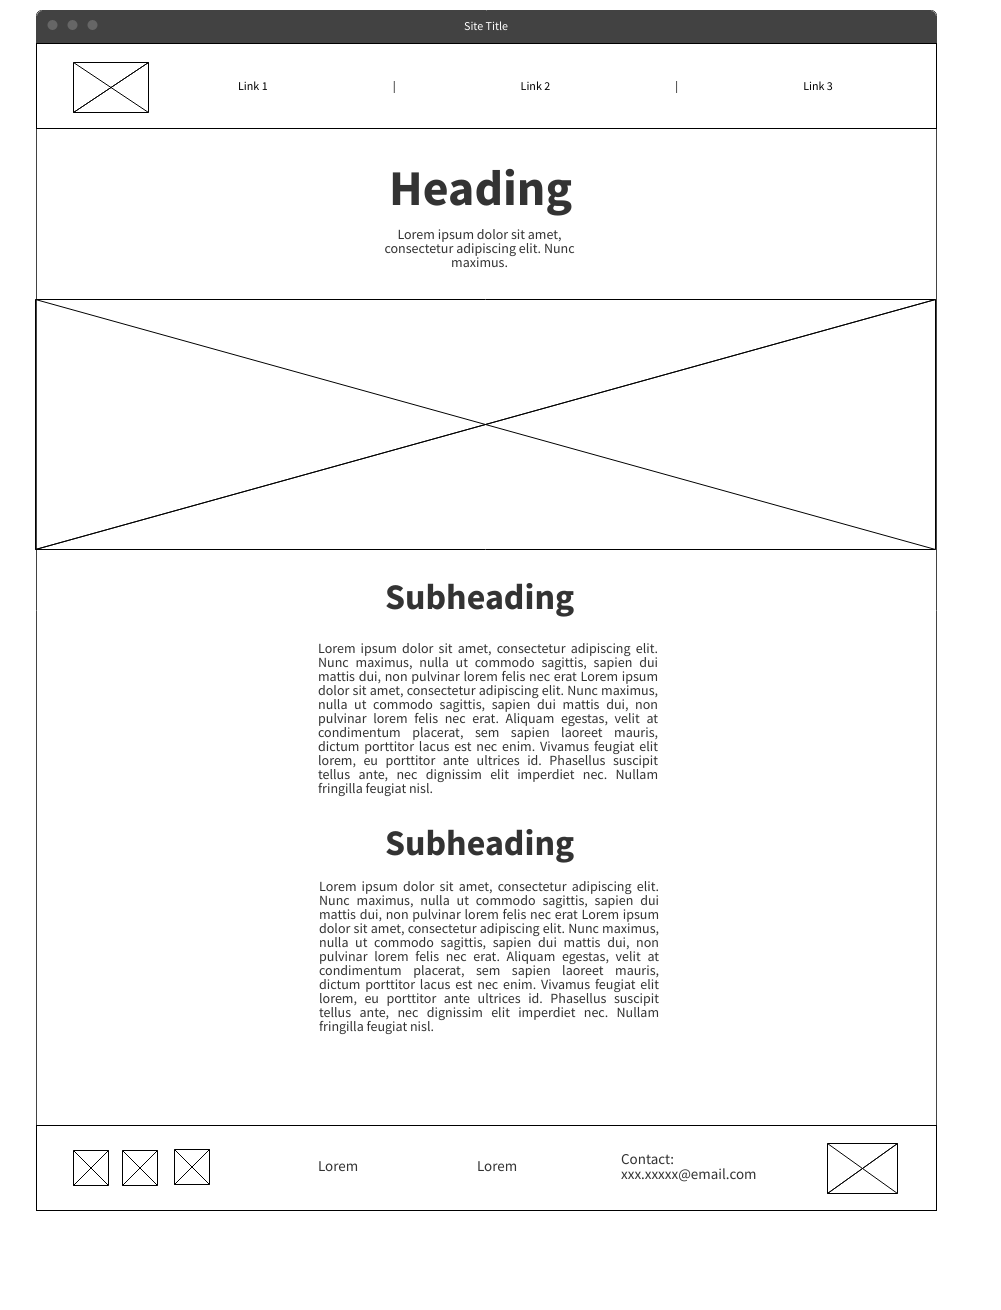
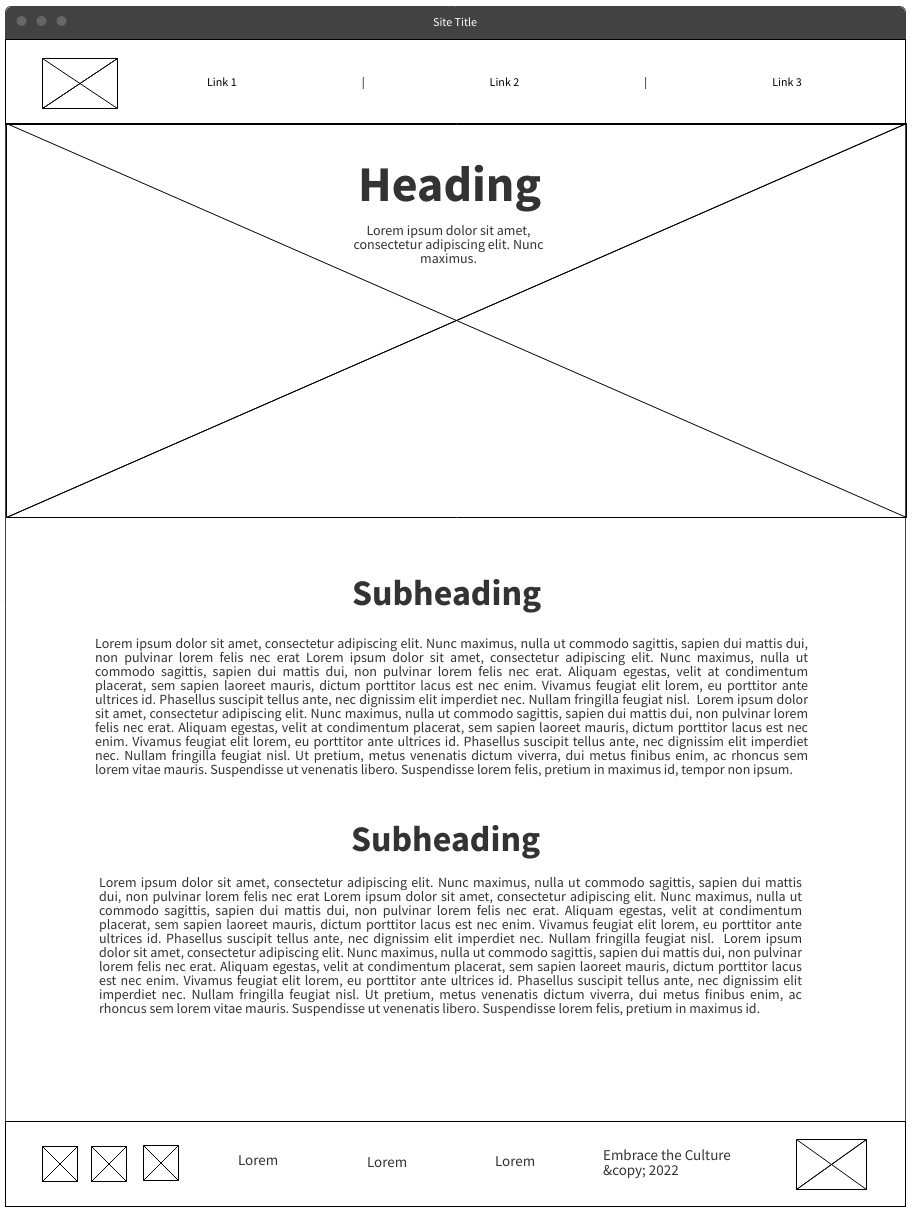
W12 Public Relation

diff --git a/embracetheculture/public-relation.html b/embracetheculture/public-relation.html
@@ -6,52 +6,61 @@
     <meta name="viewport" content="width=device-width, initial-scale=1.0">
     <link rel="shortcut icon" href="styles/embrace-the-culture-logo-300.png" type="image/x-icon">
     <title>Embrace the Culture | Public Relation</title>
+    <link rel="stylesheet" href="styles/relationstyle.css">
 </head>
-<body>
-        
-    <header>
-        <a id="logo_link" href="index.html">
-            <img class="logo" src="styles/embrace-the-culture-logo-transparent-286.png" alt="Dry Oar Logo">
-        </a>
-        <nav>
-            <a href="index.html">Home</a>
-            <a href="about-us.html">About Us</a>
-            <a href="public-relation.html">Public Relation</a>
-            <a href="site-plan.html">Site Plan</a>
-        </nav>
-    </header>
-    <main>
-        <div class="relation_head">
-            <h1 id="relation_heading">Public Relation</h1>
-            <p>Here you can find information about our mentality regarding the relationship with the audience and our interaction channel</p>
-        </div>
-        <section class="about-img">
-            <img src="styles/dorian-mongel-9zQkRU9IsDk-unsplash-500.jpg" alt="Aerial shot of the Rockfeller Center">
-        </section>
-        <div class="relation_msg">
-            <h2 id="target-msg">Target Audience</h2>
-            <p>There is not a close-minded target audience, because it is an idea that can be propagated and transmitted from person to person because of its liberating and curious character. On the other hand, it is plausible to conclude that this site will be a full dish for lovers of new adventures or who knows how to truly enjoy a place that has been on a previous occasion. Whether for the most assiduous travelers, with a passion for the unknown and what the world reserves for them, or for those who just want to upgrade on the next trip, whether it's business, vacation, or any other reason.  Anyone will have open doors to enter our site and search for locations they wish or will actually travel to. In this way, they will be presented with photos and information about the location, as well as suggestions for to-do that are beyond the travel plan of any travel company.</p>
-            <h2 id="int-msg">Interactions</h2>
-            <p>Many similar ideas of websites do not carry the same responsibility and interest as we do, that we seek a true interaction with our audience and really gauge satisfaction with the content we are delivering. For this to be done clearly, you, visitor, will have an open channel to leave us discoveries about your latest experiences or even a negative comment about a certain locality that does not necessarily allow this natural and cultural interconnection. Whether through constructive or even destructive criticism, we will always strive to improve our content to better suit the user experience that visits our site.</p>
-        </div>
-    </main>
-    <footer>
-        <div class="social_media">
-            <a href="https://facebook.com" target="_blank">
-                <img src="styles/facebook.png" alt="fb icon">
+<body>     
+    <div id="content">
+        <header>
+            <a id="logo_link" href="index.html">
+                <img class="logo" src="styles/embrace-the-culture-logo-transparent-286.png" alt="Dry Oar Logo">
             </a>
-            <a href="https://twitter.com">
-                <img src="styles/twitter.png" alt="twitter icon">
-            </a>
-            <a href="https://instagram.com">
-                <img src="styles/instagram.png" alt="instagram icon">
-            </a>
+            <nav>
+                <a href="index.html">Home</a>
+                <a href="about-us.html">About Us</a>
+                <a href="public-relation.html">Public Relation</a>
+                <a href="site-plan.html">Site Plan</a>
+            </nav>
+        </header>
+        <div class="main_relation">
+            <div class="relation_head">
+                <h1 id="relation_heading">Public Relation</h1>
+                <p>Here you can find information about our mentality regarding the relationship with the audience and our interaction channel</p>
+            </div>
+            <div class="img-box">
+                <picture>
+                    <source media="(max-width: 600px )" srcset="styles/dorian-mongel-9zQkRU9IsDk-unsplash-pq.jpg">
+                    <img class="relation-img" src="styles/dorian-mongel-9zQkRU9IsDk-unsplash-2250.jpg" alt="Aerial shot of the Rockfeller Center">
+                </picture>
+            </div>
         </div>
-        <h3><a href="about-us.html">About Us</a></h3>
-        <h3><a href="public-relation.html">Public Relation</a></h3>
-        <h3><a href="site-plan.html">Site Plan</a></h3>
-        <h3>Embrace the Culture &copy; 2022</h3>
-        <img src="styles/embrace-the-culture-logo-transparent-286.png" alt="Embrace the Culture Logo">
-    </footer>
+        <main class="main_relation2">
+            <div class="relation_msg">
+                <h2 id="target-msg">Target Audience</h2>
+                <p>There is not a close-minded target audience, because it is an idea that can be propagated and transmitted from person to person because of its liberating and curious character. On the other hand, it is plausible to conclude that this site will be a full dish for lovers of new adventures or who knows how to truly enjoy a place that has been on a previous occasion. Whether for the most assiduous travelers, with a passion for the unknown and what the world reserves for them, or for those who just want to upgrade on the next trip, whether it's business, vacation, or any other reason.  Anyone will have open doors to enter our site and search for locations they wish or will actually travel to. In this way, they will be presented with photos and information about the location, as well as suggestions for to-do that are beyond the travel plan of any travel company.</p>
+                <h2 id="int-msg">Interactions</h2>
+                <p>Many similar ideas of websites do not carry the same responsibility and interest as we do, that we seek a true interaction with our audience and really gauge satisfaction with the content we are delivering. For this to be done clearly, you, visitor, will have an open channel to leave us discoveries about your latest experiences or even a negative comment about a certain locality that does not necessarily allow this natural and cultural interconnection. Whether through constructive or even destructive criticism, we will always strive to improve our content to better suit the user experience that visits our site.</p>
+            </div>
+        </main>
+        <footer>
+            <div class="social_media">
+                <a href="https://facebook.com" target="_blank">
+                    <img src="styles/facebook.png" alt="fb icon">
+                </a>
+                <a href="https://twitter.com">
+                    <img src="styles/twitter.png" alt="twitter icon">
+                </a>
+                <a href="https://instagram.com">
+                    <img src="styles/instagram.png" alt="instagram icon">
+                </a>
+            </div>
+            <h3><a href="about-us.html">About Us</a></h3>
+            <h3><a href="public-relation.html">Public Relation</a></h3>
+            <h3><a href="site-plan.html">Site Plan</a></h3>
+            <h3>Embrace the Culture &copy; 2022</h3>
+            <a href="index.html">
+                <img class= "logo_2" src="styles/embrace-the-culture-logo-transparent-286.png" alt="Embrace the Culture Logo">
+              </a>
+        </footer>
+    </div>
 </body>
 </html>

diff --git a/embracetheculture/about-us.html b/embracetheculture/about-us.html
@@ -6,52 +6,63 @@
     <meta name="viewport" content="width=device-width, initial-scale=1.0">
     <link rel="shortcut icon" href="styles/embrace-the-culture-logo-300.png" type="image/x-icon">
     <title>Embrace the Culture | About Us</title>
+    <link rel="stylesheet" href="styles/style.css">
 </head>
 <body>
-    
-    <header>
-        <a id="logo_link" href="index.html">
-            <img class="logo" src="styles/embrace-the-culture-logo-transparent-286.png" alt="Dry Oar Logo">
-        </a>
-        <nav>
-            <a href="index.html">Home</a>
-            <a href="about-us.html">About Us</a>
-            <a href="public-relation.html">Public Relation</a>
-            <a href="site-plan.html">Site Plan</a>
-        </nav>
-    </header>
-    <main>
-        <div class="about_head">
-            <h1 id="about_heading">About Us</h1>
-            <p>Learn a little more about what moves us and our ideals</p>
-        </div>
-        <section class="about-img">
-            <img src="styles/dorian-mongel-9zQkRU9IsDk-unsplash-500.jpg" alt="Aerial shot of the Rockfeller Center">
+   <div id="content">
+       <header>
+           <a id="logo_link" href="index.html">
+               <img class="logo" src="styles/embrace-the-culture-logo-transparent-286.png" alt="Dry Oar Logo">
+           </a>
+           <nav>
+               <a href="index.html">Home</a>
+               <a href="about-us.html">About Us</a>
+               <a href="public-relation.html">Public Relation</a>
+               <a href="site-plan.html">Site Plan</a>
+           </nav>
+       </header>
+       <main class="main_about">
+           <div class="about_head">
+               <h1 id="about_heading">About Us</h1>
+               <p>Learn a little more about what moves us and our ideals</p>
+           </div>
+           <section class="about-img">
+               <picture>
+                <source media="(max-width: 800px)" srcset="styles/dorian-mongel-9zQkRU9IsDk-unsplash-pq.jpg">
+                <img class="img-about" src="styles/dorian-mongel-9zQkRU9IsDk-unsplash.jpg" alt="Aerial shot of the Rockfeller Center">
+                </picture>
+           </section>
+        </main>
+        <section class="a_msgs">
+            <div class="about_msg1">
+                <h2 id="mind-title">Our Mindset</h2>
+                <p>We are a young team passionate about new adventures, born from the desire to escape from common travel plans and non-remarkable experiences. It's not uncommon to feel trapped and uncomfortable with travel packages with linear schedules and experiences that just make us feel like a real mere visitor, someone who doesn't take advantage of the abundant culture that exudes even from streets in small towns or wonders in major world centers. As individuals, we have never been a fan of the idea of the same-old trip tour in which we experience the same things, just changing the environment, that being the locality or the people around us. For this reason, is that we give a great importance of treating each place with its due uniqueness, giving a great weight to the use of the natural or human wonders that only that locality can give us. Also, we must not forget the local culture, which in addition to providing us with a new perspective, can serve to impact us for the rest of life.</p>
+            </div>
+            <div class="about_msg2">
+             <h2 id="ta-title">Travel or Adventure?</h2>
+                <p>Fact is that we do not consider ourselves a company in the business of travel, but of adventures. The change of term may seem subtle, but with this we want to give an assertion that we can and should give uniqueness to each of our experiences, venturing into what each country has to offer. Everyone has the right and duty to create new memories and experience incredible moments, regardless of being able to define in words or not. This is the way of thinking of this team and soon it can be yours too.</p>
+            </div>
         </section>
-        <div class="about_msgs">
-            <h2 id="mind-msg">Our Mindset</h2>
-            <p>We are a young team passionate about new adventures, born from the desire to escape from common travel plans and non-remarkable experiences. It's not uncommon to feel trapped and uncomfortable with travel packages with linear schedules and experiences that just make us feel like a real mere visitor, someone who doesn't take advantage of the abundant culture that exudes even from streets in small towns or wonders in major world centers. As individuals, we have never been a fan of the idea of the same-old trip tour in which we experience the same things, just changing the environment, that being the locality or the people around us. For this reason, is that we give a great importance of treating each place with its due uniqueness, giving a great weight to the use of the natural or human wonders that only that locality can give us. Also, we must not forget the local culture, which in addition to providing us with a new perspective, can serve to impact us for the rest of life.</p>
-            <h2 id="ta-msg">Travel or Adventure?</h2>
-            <p>Fact is that we do not consider ourselves a company in the business of travel, but of adventures. The change of term may seem subtle, but with this we want to give an assertion that we can and should give uniqueness to each of our experiences, venturing into what each country has to offer. Everyone has the right and duty to create new memories and experience incredible moments, regardless of being able to define in words or not. This is the way of thinking of this team and soon it can be yours too.</p>
-        </div>
-    </main>
-    <footer>
-        <div class="social_media">
-            <a href="https://facebook.com" target="_blank">
-                <img src="styles/facebook.png" alt="fb icon">
-            </a>
-            <a href="https://twitter.com">
-                <img src="styles/twitter.png" alt="twitter icon">
-            </a>
-            <a href="https://instagram.com">
-                <img src="styles/instagram.png" alt="instagram icon">
-            </a>
-        </div>
-        <h3><a href="about-us.html">About Us</a></h3>
-        <h3><a href="public-relation.html">Public Relation</a></h3>
-        <h3><a href="site-plan.html">Site Plan</a></h3>
-        <h3>Embrace the Culture &copy; 2022</h3>
-        <img src="styles/embrace-the-culture-logo-transparent-286.png" alt="Embrace the Culture Logo">
-    </footer>
+       <footer>
+           <div class="social_media">
+               <a href="https://facebook.com" target="_blank">
+                   <img src="styles/facebook.png" alt="fb icon">
+               </a>
+               <a href="https://twitter.com">
+                   <img src="styles/twitter.png" alt="twitter icon">
+               </a>
+               <a href="https://instagram.com">
+                   <img src="styles/instagram.png" alt="instagram icon">
+               </a>
+           </div>
+           <h3><a href="about-us.html">About Us</a></h3>
+           <h3><a href="public-relation.html">Public Relation</a></h3>
+           <h3><a href="site-plan.html">Site Plan</a></h3>
+           <h3>Embrace the Culture &copy; 2022</h3>
+           <a href="index.html">
+            <img class= "logo_2" src="styles/embrace-the-culture-logo-transparent-286.png" alt="Embrace the Culture Logo"> 
+          </a>
+       </footer>
+   </div>
 </body>
 </html>

diff --git a/embracetheculture/styles/relationstyle.css b/embracetheculture/styles/relationstyle.css
@@ -1,0 +1,124 @@
+@import url('https://fonts.googleapis.com/css2?family=Carter+One&family=Hind:wght@300&display=swap');
+
+#content {
+    min-width: 320px;
+    max-width: 1600px;
+    margin: 0 auto;
+    box-shadow: 0px 0px 0px 10px #1d6586;
+}
+body {
+    font-family: "Hind";
+}
+/** Header **/
+header {
+    background-color: #1d6586;
+    display: grid;
+    grid-template-columns: 150px auto;
+    font-family: "Carter One";
+}
+nav {
+    display: flex;
+    justify-content: space-around;
+}
+nav a {
+    text-align: center;
+    color: #dcf3f9;
+    text-decoration: none;
+    padding: 35px;
+}
+nav a:hover {
+    color: #ff961f;
+    transition: 1s;
+}
+#logo_link {
+    padding-top: 5px;
+    justify-self: center;
+    align-self: center;
+}
+.logo {
+    width: 80px;
+}
+/** Banner **/
+.main_relation {
+    display: grid;
+    grid-template-columns: repeat(4, 25%);
+    grid-template-rows: repeat(5, 20%);
+    font-family: "Carter One";
+}
+.relation-img {
+    width: 100%;
+}
+.img-box {
+    grid-column: 1/6;
+    grid-row: 1/6;
+    z-index: -1;
+}
+.relation_head {
+    margin-top: 55px;
+    text-align: center;
+    grid-column: 2/4;
+    grid-row: 1/2;
+    color: #dcf3f9;
+    text-shadow: 0 0 0.5em #ff961f
+}
+#relation_heading {
+    font-size: 2em;
+}
+
+/** Main **/
+.main_relation2 {
+    display: grid;
+    grid-template-columns: repeat(10,10%);
+    background-color: #dcf3f9;
+    margin-top: -7px;
+}
+.relation_msg {
+    grid-column: 2/10;
+    text-align: justify;
+}
+.relation_msg h2 {
+    font-family: "Carter One";
+    text-align: center;
+    color: #1d6586;
+    text-decoration: underline #ff961f;
+}
+.relation_msg p {
+    color: #1d6586;
+}
+/** Footer **/
+footer {
+    background-color: #1d6586;
+    padding: 25px 50px;
+    display: flex;
+    justify-content: space-around;
+    align-items: center;
+    font-family: "Carter One";
+}
+footer a, footer h3 {
+    color: #dcf3f9;
+    text-decoration: none;
+}
+footer a:hover {
+    color: #ff961f;
+    transition: 1s;
+}
+footer.social img {
+    padding-top: 15px;
+}
+.logo_2 {
+    width: 120px;
+    margin-right: -25px;
+}
+@media screen and (max-width: 900px) {
+    #hero, .home-grid {
+        display: block;
+        height: auto;
+    }
+    nav, footer {
+        flex-direction: column;
+    }
+    nav a {
+        display: block;
+        padding: 15px;
+    }
+}

diff --git a/embracetheculture/index.html b/embracetheculture/index.html
@@ -25,7 +25,7 @@
            <div id="hero_box">
                <picture>
                     <source media="(max-width: 600px )" srcset="styles/clay-banks-qVPXy016qno-unsplash-pq.jpg">
-                    <img id="hero_img" src="styles/clay-banks-qVPXy016qno-unsplash-2250.jpg" alt="Two roads full of parallel cars heading towards a city.">
+                    <img id="hero_img" src="styles/dorian-mongel-9zQkRU9IsDk-unsplash-2250.jpg" alt="Two roads full of parallel cars heading towards a city.">
                </picture>
            </div>
            <section class="hero_msg">
